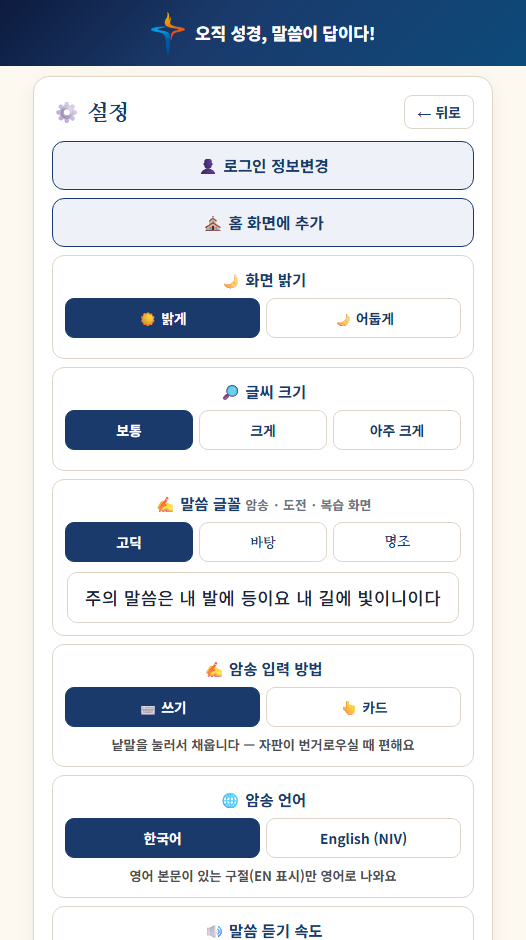
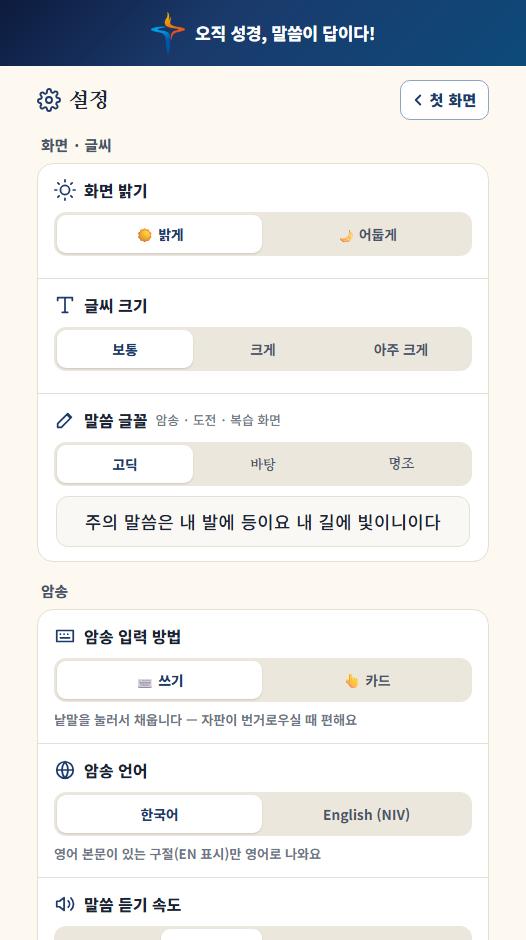
feat(설정): A안 — 묶음 제목 + 흰 카드 줄(친구 「2안」) — v3.640
- applySettingsA: 화면 · 글씨 / 암송 / 알림 / 내 정보 · 앱 / 동기화 로 옮겨 담기(id · 연결 · 저장 그대로)
- 선 아이콘 · 고르는 칸 회색 판 위 흰 칸 · 단추 [아이콘 · 이름 · ›] 줄 · 「‹ 첫 화면」
- 설명서 · 도움말 · 알림 길잡이의 단추 이름에서 그림 글자만 뺌 · guide ⑧ 손가락 · settings.png
- 롤백: SETTINGS_LAYOUT "old"

diff --git a/app.js b/app.js
@@ -6,7 +6,7 @@
 
 // 이 파일의 빌드 번호 — index.html의 app.js?v= 와 반드시 같아야 한다.
 // (tools/bump.py가 둘을 함께 올린다)
-const APP_BUILD = "20261014s";
+const APP_BUILD = "20261014t";
 
 // 배포 직후 CDN이 아직 옛 app.js를 내보내면, 브라우저는 그 옛 내용을 '새 주소'
 // 아래 캐시해 버린다. 주소가 다시 바뀌기 전까지(최대 10분) 옛 화면이 남는 이유다.
@@ -785,6 +785,8 @@ function albumAActive() {
 //   (B · C 시안은 10/14 미리보기만 하고 걷었다 — 남은 b · c 표식은 A 로 본다 · style.css 의 .memo-b/.memo-c 덩이는 나중에 걷는다)
 //   ⚠ 위 구절 띠(.test-ref-sticky)에는 아무것도 넣지 않는다 — 아이폰 앱이 그 글자를 읽어 제 띠를 그린다(js/push.js). 그래서 「목록으로」는 띠 밑 줄에.
 const MEMO_LAYOUT = "a";
+// ⚙ 설정 화면 A안(2026-10-14 친구 「2안」 · applySettingsA) — 롤백은 "old" 한 줄 + bump(옮겨 담기라 옛 템플릿 그대로)
+const SETTINGS_LAYOUT = "a";
 const MEMO_KEY = "memo-preview";
 function readMemoPreviewParam() {
   try {
@@ -886,6 +888,20 @@ const HA_ICON = {
   speaker: "M11 5 6 9H3v6h3l5 4zM15.5 8.5a5 5 0 0 1 0 7M18.5 5.5a9 9 0 0 1 0 13",
   bulb: "M9 18h6M10 22h4M12 2a7 7 0 0 0-4 12.7V17h8v-2.3A7 7 0 0 0 12 2z",
   bell: "M6 8a6 6 0 0 1 12 0c0 7 3 9 3 9H3s3-2 3-9M10 21a2 2 0 0 0 4 0",
+  sun: "M12 17a5 5 0 1 0 0-10 5 5 0 0 0 0 10zM12 1v2M12 21v2M4.2 4.2l1.4 1.4M18.4 18.4l1.4 1.4M1 12h2M21 12h2M4.2 19.8l1.4-1.4M18.4 5.6l1.4-1.4",   // ⚙ 설정 A(applySettingsA) ↓
+  moon: "M21 12.8A9 9 0 1 1 11.2 3a7 7 0 0 0 9.8 9.8z",
+  type: "M4 7V4h16v3M9 20h6M12 4v16",
+  globe: "M12 21a9 9 0 1 0 0-18 9 9 0 0 0 0 18zM3 12h18M12 3a14 14 0 0 1 0 18M12 3a14 14 0 0 0 0 18",
+  clock: "M12 21a9 9 0 1 0 0-18 9 9 0 0 0 0 18zM12 7v5l3 2",
+  belloff: "M8.7 3A6 6 0 0 1 18 8c0 3 .6 5 1.3 6.4M17 17H3s3-2 3-9c0-.8.1-1.5.4-2.2M3 3l18 18M10 21a2 2 0 0 0 4 0",
+  user: "M20 21v-2a4 4 0 0 0-4-4H8a4 4 0 0 0-4 4v2M12 11a4 4 0 1 0 0-8 4 4 0 0 0 0 8z",
+  share: "M4 12v7a1 1 0 0 0 1 1h14a1 1 0 0 0 1-1v-7M16 6l-4-4-4 4M12 2v13",
+  lock: "M5 11h14v10H5zM8 11V7a4 4 0 0 1 8 0v4",
+  shield: "M12 22s8-4 8-10V5l-8-3-8 3v7c0 6 8 10 8 10z",
+  trash: "M3 6h18M8 6V4h8v2M6 6l1 14h10l1-14",
+  cloud: "M18 10h-1.3A6 6 0 1 0 6 16h12a3 3 0 0 0 0-6z",
+  flask: "M9 3h6M10 3v6l-5 9a2 2 0 0 0 2 3h10a2 2 0 0 0 2-3l-5-9V3",
+  back: "M15 6l-6 6 6 6",
   gear: "M12 15a3 3 0 1 0 0-6 3 3 0 0 0 0 6zM19.4 15a1.7 1.7 0 0 0 .3 1.8l.1.1a2 2 0 1 1-2.8 2.8l-.1-.1a1.7 1.7 0 0 0-2.9 1.2V21a2 2 0 1 1-4 0v-.1a1.7 1.7 0 0 0-2.9-1.2l-.1.1a2 2 0 1 1-2.8-2.8l.1-.1A1.7 1.7 0 0 0 3.1 15H3a2 2 0 1 1 0-4h.1a1.7 1.7 0 0 0 1.2-2.9l-.1-.1a2 2 0 1 1 2.8-2.8l.1.1A1.7 1.7 0 0 0 10 4.1V3a2 2 0 1 1 4 0v.1a1.7 1.7 0 0 0 2.9 1.2l.1-.1a2 2 0 1 1 2.8 2.8l-.1.1A1.7 1.7 0 0 0 20.9 10H21a2 2 0 1 1 0 4h-.1a1.7 1.7 0 0 0-1.5 1z",
 };
 const HA_GROUPS = [
@@ -5473,6 +5489,80 @@ function renderSettings() {
   setupPushHour();
   setupPushEvening();
   setupInstallButton();
+  applySettingsA();   // 설정 A안(SETTINGS_LAYOUT) — 연결을 다 마친 뒤 옮겨 담는다
+}
+
+// ── ⚙ 설정 A안(2026-10-14 친구 「2안」 — 묶음 제목 + 흰 카드 줄 · 샘플 자료/design/2026-10-14-settings-sample · 스위치 SETTINGS_LAYOUT) ──────
+//   renderSettings 가 옛 화면을 다 그리고 연결까지 마친 뒤 옮겨 담는다 — 단추 · 고르는 칸의 id · 연결 · 저장은 옛 코드 그대로.
+//   묶음: 화면 · 글씨(밝기 · 글씨 크기 · 말씀 글꼴) · 암송(입력 방법 · 언어 · 듣기 속도) · 알림(아침 시간 ~ 테스트 알림 — 사이에 있는 것은 모두 ·
+//   아이폰 앱은 안내 글 한 줄) · 내 정보 · 앱(로그인 정보변경 · 홈 화면에 추가 · 공유하기 · 개인정보 안내 · 관리 페이지 · 이 기기에서 내 정보 지우기) · 동기화.
+//   ⚠ 「로그인 정보변경」 · 「홈 화면에 추가」가 맨 위에서 「내 정보 · 앱」으로 내려갔다(친구가 알고 고름 — 샘플 ①은 차례 그대로였다).
+//   그림 글자는 선 아이콘 · 고르는 칸은 회색 판 위 흰 칸 · 단추는 [아이콘 · 이름 · ›] 줄 · 「‹ 첫 화면」(옛 「← 뒤로」도 첫 화면으로 갔다).
+const SET_LABEL_ICON = { "theme-row": "sun", "fontsize-row": "type", "wfont-row": "pen", "cardstart-row": "keyboard", "lang-row": "globe",
+  "tts-rate-row": "speaker", "pushhour-row": "clock", "pushevening-row": "moon" };
+const SET_BTN_ICON = { "change-user": "user", "install-btn": "house", "enable-push": "bell", "test-push": "flask", "share-btn": "share",
+  "open-manage": "lock", "privacy-info": "shield", "disable-push": "belloff", "clear-me": "trash" };
+function setStripEmoji(el) {
+  const t = el && el.firstChild;
+  if (t && t.nodeType === 3) t.data = t.data.replace(/^\s*(\p{Extended_Pictographic}(?:|\p{Extended_Pictographic})*?)\s*/u, "");
+}
+function applySettingsA() {
+  if (SETTINGS_LAYOUT !== "a") return;
+  const card = document.querySelector("#app .summary-card");
+  const head = card && card.querySelector(":scope > .settings-head");
+  if (!head || card.querySelector(".st-groups")) return;
+  card.closest(".summary-screen").classList.add("st-a");
+  const title = head.querySelector(".rank-title");
+  if (title) title.innerHTML = haSvg("gear", "st-tic") + "<span>설정</span>";
+  const back = document.getElementById("settings-back");
+  if (back) back.innerHTML = haSvg("back", "st-bic") + "<span>첫 화면</span>";
+  const blk = (id) => { const r = document.getElementById(id); return r ? r.closest(".setting-block") : null; };
+  Object.keys(SET_LABEL_ICON).forEach((id) => {
+    const l = blk(id) && blk(id).querySelector(".setting-label");
+    if (l) { setStripEmoji(l); l.insertAdjacentHTML("afterbegin", haSvg(SET_LABEL_ICON[id], "st-ic")); }
+  });
+  const sync = [...card.querySelectorAll(":scope > .setting-block")].find((b) => /동기화/.test(b.querySelector(".setting-label")?.textContent || ""));
+  if (sync) { const l = sync.querySelector(".setting-label"); setStripEmoji(l); l.insertAdjacentHTML("afterbegin", haSvg("cloud", "st-ic")); }
+  Object.keys(SET_BTN_ICON).forEach((id) => {
+    const b = document.getElementById(id);
+    if (!b) return;
+    setStripEmoji(b);
+    const br = b.querySelector("br");
+    if (br) br.remove();
+    const lab = document.createElement("span");
+    lab.className = "st-lab";
+    [...b.childNodes].forEach((n) => lab.appendChild(n));
+    b.appendChild(lab);
+    b.insertAdjacentHTML("afterbegin", haSvg(SET_BTN_ICON[id], "st-ic"));
+    b.insertAdjacentHTML("beforeend", haSvg("chev", "st-chev"));
+    b.classList.add("st-row");
+  });
+  const pv = document.getElementById("tts-preview");
+  if (pv) { setStripEmoji(pv); pv.insertAdjacentHTML("afterbegin", haSvg("speaker", "st-ic")); }
+  // 알림 — 아침 시간 칸부터 「테스트 알림」까지 사이에 있는 것 모두(저녁 알림 · 알림 받기 · 상태 글 · 끄기 · 아이폰 앱 안내)
+  const alarm = [];
+  const from = blk("pushhour-row"), to = document.getElementById("test-push");
+  if (from && to) { for (let el = from; el; el = el.nextElementSibling) { alarm.push(el); if (el === to) break; } }
+  const G = [
+    ["화면 · 글씨", [blk("theme-row"), blk("fontsize-row"), blk("wfont-row")]],
+    ["암송", [blk("cardstart-row"), blk("lang-row"), blk("tts-rate-row")]],
+    ["알림", alarm],
+    ["내 정보 · 앱", ["change-user", "install-btn", "share-btn", "privacy-info", "open-manage", "clear-me"].map((id) => document.getElementById(id))],
+    ["동기화", [sync]],
+  ];
+  const wrap = document.createElement("div");
+  wrap.className = "st-groups";
+  G.forEach(([t, items]) => {
+    const list = items.filter(Boolean);
+    if (!list.length) return;
+    const sec = document.createElement("section");
+    sec.className = "st-group";
+    sec.innerHTML = `<div class="st-gt">${t}</div><div class="st-card"></div>`;
+    const box = sec.querySelector(".st-card");
+    list.forEach((x) => box.appendChild(x));
+    wrap.appendChild(sec);
+  });
+  head.after(wrap);   // 남는 것(아이폰 앱 판 한 줄 등)은 그 아래 그대로
 }
 
 // 공용 기기(로비 지원용 태블릿 등)를 다음 사람에게 넘기기 전에 내 흔적을 지운다.
@@ -9043,7 +9133,7 @@ function maybeShowOldPlayAppNotice() {
         <div class="cheer-msg dmsg-body">지금 쓰시는 앱은 시험하던 옛 앱이에요.<br>플레이스토어에 정식 앱 <b>「성경말씀 암송 (고척교회)」</b>이 나왔어요.<br><br>
           ① 아래 「새 앱 받기」로 설치해 주세요.<br>
           ② 새 앱에서 같은 소속·이름으로 들어오시면 기록이 그대로 이어져요.<br>
-          ③ 설정에서 「🔔 매일 암송 알림 받기」를 한 번 다시 눌러 주세요(알림은 앱마다 따로 켜야 해요).<br>
+          ③ 설정에서 「매일 암송 알림 받기」를 한 번 다시 눌러 주세요(알림은 앱마다 따로 켜야 해요).<br>
           ④ 새 앱이 잘 열리면 이 옛 앱은 지우셔도 돼요.</div>
         <div class="song-modal-actions">
           <button class="summary-help" id="old-app-later">나중에</button>
@@ -9970,7 +10060,7 @@ const MANUAL = [
         : "첫 화면을 <b>맨 아래까지</b> 내려 <b>⚙ 설정</b>을 누르세요.",
       "<b>글씨 크기</b>에서 <b>크게</b>나 <b>아주 크게</b>를 고르세요.",
       "눈이 부시면 <b>화면 밝기</b>에서 <b>🌙 어둡게</b>를 고르세요.",
-      "이름이나 목장이 바뀌었으면 <b>👤 로그인 정보변경</b>에서 고치세요.",
+      "이름이나 목장이 바뀌었으면 <b>로그인 정보변경</b>에서 고치세요.",
     ],
     tip: "<b>말씀 듣기 속도</b>도 여기서 느리게 할 수 있어요. 영어로 외우고 싶으시면 <b>암송 언어</b>에서 <b>English (NIV)</b>를 고르세요.",
   },
@@ -10198,7 +10288,7 @@ function renderHelp(onClose) {
 
         <section class="help-section">
           <h3>📲 공유 & 홈 화면 추가</h3>
-          <p><b>⚙ 설정</b>의 <b>🔗 공유하기</b>로 가족·목장원들에게 링크를 보낼 수 있고, <b>⛪ 홈 화면에 추가</b>로 앱처럼 바로 열 수 있어요.</p>
+          <p><b>⚙ 설정</b>의 <b>공유하기</b>로 가족·목장원들에게 링크를 보낼 수 있고, <b>홈 화면에 추가</b>로 앱처럼 바로 열 수 있어요.</p>
         </section>
 
         <section class="help-section">

diff --git a/style.css b/style.css
@@ -7373,3 +7373,60 @@ html[data-fs="xl"] .vl-a .vs-ic { width: 20px; height: 20px; }
 .dark .vl-a .vl-card .heart-ribbon { color: #e9cd7e; }
 .dark .vl-a .card-listen { background: #1a202b; border-color: #2c3442; color: #9dbbea; }
 .dark .vl-a .card-listen:hover { background: #222a37; }
+
+/* ── ⚙ 설정 A안(app.js applySettingsA · 2026-10-14 친구 「2안」 — 묶음 제목 + 흰 카드 줄) ─────────────────────────────────
+   흰 큰 카드를 걷고 바탕 위에 묶음(화면 · 글씨 / 암송 / 알림 / 내 정보 · 앱 / 동기화)마다 흰 카드 하나 · 안은 줄(사이 선).
+   고르는 칸은 회색 판 위 흰 칸(「쓰기 | 카드」와 같은 꼴) · 단추는 [아이콘 · 이름 · ›] 줄 · 「알림 끄기」 · 「내 정보 지우기」만 빨강. */
+.st-a .summary-card { background: transparent; border: 0; box-shadow: none; padding: 0 4px 24px; text-align: left; }
+.st-a .settings-head { display: flex; align-items: center; justify-content: space-between; gap: 10px; margin: 4px 0 14px; }
+.st-a .rank-title { display: flex; align-items: center; gap: 8px; margin: 0; font-size: 1.3rem; color: #1b2333; }
+.st-a .st-tic { width: 24px; height: 24px; color: #1e3a6b; }
+.st-a #settings-back { display: inline-flex; align-items: center; gap: 2px; min-height: 40px; padding: 0 12px 0 8px; border: 1.5px solid #8da3c8; border-radius: 10px; background: #fff; color: #1e3a6b; font-size: .94rem; font-weight: 800; }
+.st-a #settings-back:hover { background: #eaf0f9; }
+.st-a .st-bic { width: 18px; height: 18px; stroke-width: 2.4; }
+.st-a .st-groups { display: flex; flex-direction: column; gap: 18px; }
+.st-a .st-gt { margin: 0 0 8px; padding: 0 4px; font-size: .92rem; font-weight: 800; color: #4a5468; }
+.st-a .st-card { background: #fff; border: 1px solid #e5dfd4; border-radius: 16px; overflow: hidden; }
+.st-a .st-card > * { margin: 0; border: 0; border-top: 1px solid #e5dfd4; border-radius: 0; background: transparent; box-shadow: none; }
+.st-a .st-card > :first-child { border-top: 0; }
+.st-a .st-card > [hidden] { display: none; }
+.st-a .st-card > .setting-block { padding: 14px 16px; }
+.st-a .st-card > .app-status { padding: 4px 16px 10px; border-top: 0; font-size: .82rem; text-align: left; }
+.st-a .st-card > .app-status:empty { display: none; }
+.st-a .setting-label { display: flex; align-items: center; gap: 8px; justify-content: flex-start; margin: 0 0 10px; text-align: left; font-size: 1rem; font-weight: 800; color: #1b2333; }
+.st-a .setting-sub { font-weight: 500; color: #6e7787; }
+.st-a .st-ic { width: 22px; height: 22px; flex: none; color: #1e3a6b; }
+.st-a .tts-rate-row { gap: 2px; padding: 3px; border-radius: 12px; background: #ece7dd; }
+.st-a .tts-rate-row button { margin: 0; border: 0; border-radius: 9px; background: transparent; color: #4a5468; font-weight: 600; box-shadow: none; }
+.st-a .tts-rate-row button.on { background: #fff; color: #1e3a6b; font-weight: 800; box-shadow: 0 1px 2px rgba(0, 0, 0, .14); }
+.st-a .setting-block .btn-sub { text-align: left !important; color: #4a5468; }
+.st-a .wf-sample { border: 1px solid #e5dfd4; border-radius: 12px; background: #faf8f4; }
+.st-a #tts-preview { display: flex; align-items: center; justify-content: center; gap: 8px; min-height: 44px; border: 1.5px solid #8da3c8; border-radius: 12px; background: #fff; color: #1e3a6b; font-weight: 800; }
+.st-a #tts-preview:hover { background: #eaf0f9; }
+.st-a .st-row {
+  display: flex; align-items: center; gap: 12px; width: 100%; min-height: 56px; padding: 8px 14px 8px 16px;
+  text-align: left; font-family: inherit; font-size: 1rem; font-weight: 700; color: #1b2333; text-decoration: none; cursor: pointer;
+}
+.st-a .st-row:hover { background: #f7f4ee; }
+.st-a .st-row .st-lab { flex: 1 1 auto; display: flex; flex-direction: column; gap: 2px; min-width: 0; word-break: keep-all; }   /* 「지우 / 기」처럼 낱말 가운데서 꺾이지 않게 */
+.st-a .st-row .btn-sub { font-size: .82rem; font-weight: 500; color: #4a5468; }
+.st-a .st-row .st-chev { width: 20px; height: 20px; flex: none; color: #8a93a3; }
+.st-a #disable-push.st-row, .st-a #clear-me.st-row, .st-a #disable-push .st-ic, .st-a #clear-me .st-ic { color: #b4232f; }
+.dark .st-a .summary-card { background: transparent; border: 0; }
+.dark .st-a .rank-title { color: #f1eee7; }
+.dark .st-a .st-tic, .dark .st-a .st-ic { color: #9dbbea; }
+.dark .st-a #settings-back { background: #1a202b; border-color: #4a6597; color: #9dbbea; }
+.dark .st-a #settings-back:hover { background: #222a37; }
+.dark .st-a .st-gt { color: #b9c0cd; }
+.dark .st-a .st-card { background: #1a202b; border-color: #2c3442; }
+.dark .st-a .st-card > * { border-top-color: #2c3442; background: transparent; }
+.dark .st-a .setting-label { color: #f1eee7; }
+.dark .st-a .setting-sub, .dark .st-a .setting-block .btn-sub, .dark .st-a .st-row .btn-sub { color: #b9c0cd; }
+.dark .st-a .tts-rate-row { background: #262d39; }
+.dark .st-a .tts-rate-row button { background: transparent; border: 0; color: #b9c0cd; }
+.dark .st-a .tts-rate-row button.on { background: #1a202b; color: #9dbbea; border: 0; }
+.dark .st-a .wf-sample { background: #131925; border-color: #2c3442; }
+.dark .st-a #tts-preview { background: #1a202b; border-color: #4a6597; color: #9dbbea; }
+.dark .st-a .st-row { color: #f1eee7; }
+.dark .st-a .st-row:hover { background: #222a37; }
+.dark .st-a #disable-push.st-row, .dark .st-a #clear-me.st-row, .dark .st-a #disable-push .st-ic, .dark .st-a #clear-me .st-ic { color: #f07a82; }

diff --git a/index.html b/index.html
@@ -68,7 +68,7 @@
   <link rel="preconnect" href="https://fonts.gstatic.com" crossorigin />
   <link href="https://fonts.googleapis.com/css2?family=Gowun+Batang:wght@400;700&family=Lora:wght@400;600;700&family=Nanum+Myeongjo:wght@400;700;800&family=Noto+Sans+KR:wght@400;500;700;800&display=swap" rel="stylesheet" media="print" onload="this.media='all'" />
   <noscript><link href="https://fonts.googleapis.com/css2?family=Gowun+Batang:wght@400;700&family=Lora:wght@400;600;700&family=Nanum+Myeongjo:wght@400;700;800&family=Noto+Sans+KR:wght@400;500;700;800&display=swap" rel="stylesheet" /></noscript>
-  <link rel="stylesheet" href="style.css?v=20261014s" />
+  <link rel="stylesheet" href="style.css?v=20261014t" />
 </head>
 <body>
   <!-- 앱 시작 스플래시 화면 -->
@@ -77,7 +77,7 @@
       <img id="splash-logo" src="img/logo-gocheok.png" alt="고척교회" />
       <div class="splash-title">오직 성경, 말씀이 답이다!</div>
       <div class="splash-sub">주의 말씀은 내 발에 등이요<br>내 길에 빛이니이다</div>
-      <div class="splash-ver">v3.639</div>
+      <div class="splash-ver">v3.640</div>
       <img class="splash-denom" src="logo3.png?v=20260702y" alt="대한예수교장로회총회" onerror="this.style.display='none'" />
     </div>
   </div>
@@ -108,11 +108,11 @@
     <p style="text-align:center;padding:40px">불러오는 중...</p>
   </main>
 
-  <script src="js/config.js?v=20261014s"></script>
-  <script src="js/api.js?v=20261014s"></script>
-  <script src="js/push.js?v=20261014s"></script>
-  <script src="js/psalm.js?v=20261014s"></script>
-  <script src="js/events.js?v=20261014s"></script>
-  <script src="app.js?v=20261014s"></script>
+  <script src="js/config.js?v=20261014t"></script>
+  <script src="js/api.js?v=20261014t"></script>
+  <script src="js/push.js?v=20261014t"></script>
+  <script src="js/psalm.js?v=20261014t"></script>
+  <script src="js/events.js?v=20261014t"></script>
+  <script src="app.js?v=20261014t"></script>
 </body>
 </html>

diff --git a/admin.html b/admin.html
@@ -74,7 +74,7 @@
     // 교회 어드민으로 옮긴 관리 화면은 여기서 걷었다 — 성도 정보(2026-10-09) · 이벤트 · 찬양 아카이브 · 내게 주시는 말씀 기록 · 사역관리(2026-10-13).
     //   남은 것(성경암송 관리 · 설교·찬양 관리)은 설교 실전 확인 뒤 마지막 걷기에(docs/notes/admin-migration.md).
     //   ⚠ 교회 어드민(admin.onlybible.kr)으로 가는 타일은 두지 않는다(2026-10-13 친구 — 그곳은 주소로 직접 들어간다).
-    { ic:"📖", title:"성경암송 관리", desc:"통계 · 알림발송 · 주간리포트 · 게시판", href:"admin-stats.html?v=20261014s" },
+    { ic:"📖", title:"성경암송 관리", desc:"통계 · 알림발송 · 주간리포트 · 게시판", href:"admin-stats.html?v=20261014t" },
     { ic:"⛪", title:"설교·찬양 관리", desc:"설교 올리기(두 단계) · 설교 목록 · 매일 묵상 · 담당자 — 담당자도 이 주소로", href:"admin-sermon.html" },
     { ic:"🎬", title:"환영 인트로 미리보기", desc:"첫 방문 인트로 4장 — 성도님 화면엔 영향 없음", href:"index.html?preview=intro" },
     { ic:"🙏", title:"축복 인사 미리보기", desc:"첫 로그인 축복 카드 — 로그인 상태에서 확인", href:"index.html?preview=blessing" },

diff --git a/guide/index.html b/guide/index.html
@@ -204,7 +204,7 @@ var STEPS = [
     s:"외운 말씀이 모이는 곳이에요.",
     say:"3단계까지 마친 말씀이 여기 모여요. <b>스스로 점검</b>에서 말씀을 <b>가리고</b> 스스로 맞혀 볼 수 있고, 맨 위 <b>▶ 듣기</b>로 이어서 들을 수도 있습니다." },
 
-  { img:"shots/settings.png", t:"⑧ 글씨 크게 하기", tap:{x:50,y:50},
+  { img:"shots/settings.png", t:"⑧ 글씨 크게 하기", tap:{x:54,y:37},
     s:"잘 안 보이시면 키우세요.",
     say:"첫 화면 내 이름 오른쪽의 <b>⚙</b>(설정)을 누르고 <b>글씨 크기</b>에서 「크게」나 「아주 크게」를 고르세요. 읽어 주는 <b>속도</b>도 느리게 할 수 있어요." },
 

diff --git a/CLAUDE.md b/CLAUDE.md
@@ -59,7 +59,7 @@
 | 봉사 당번(2026-10-06 운영 · 문 닫힘 — 🧪만) — `duty_signups` 에 직접 쓰지 말 것 | `docs/notes/duty-roster.md` |
 | 관리 기능을 교회 어드민으로 옮기기(2026-10-08 결정) | `docs/notes/admin-migration.md` · `docs/backlog.md` 4-5 |
 | 안드로이드 앱(TWA)·위젯·플레이스토어(새 앱 `kr.onlybible.gocheok`) | `docs/notes/android-app.md` |
-| 디자인 개편(2026-10-12 시작 · 시안 A·B·C 의견 수렴 중 — 고르기 전엔 입히지 말 것) · 「전」 사진 `자료/design/` · **먼저 넣은 것**(10-12 운영): 첫 화면 남은 수·전체 수·% 빼기 · 말씀 목록 시안 B 구조(본문 두 줄 · 거르기 칸 「진행·마침·마음에 둠·안 함」 · 힌트는 마음에 둔 구절에만) · 상태 이름 「아직 안 함 · 1단계 마침 · 다 마침」 · **첫 화면 A안 운영(2026-10-13 · 이번 주 말씀 아래 줄 목록) — 롤백 `app.js` `HOME_LAYOUT = "old"` 한 줄 + bump(깃 태그 `home-before-a-2026-10-13`)** · 한 기기만 `?home=old` · B안 미리보기 `?home=b` · `?home=off` · **나의 말씀 앨범 A안 운영(2026-10-13 v3.617 · 롤백 `app.js` `ALBUM_LAYOUT = "old"` 한 줄 + bump)** · 「첫 화면으로」는 시안과 달리 늘 아래에 떠 있게(친구) · **✍ 말씀 글꼴 설정(2026-10-14 · 기본 고딕 · `html[data-wf]`)** · **암송 · 말씀 도전 A안 운영(2026-10-14 v3.634 · 주제별 성경암송 3단계 · 복습도 v3.635 · 단계 완료 창 · 마친 뒤 카드 · 주제별 목록 · 첫 화면 위쪽(🔔⚙ 는 인사 줄 오른쪽 — 친구 v3.637)도 v3.636 · **맨 위 띠(모든 화면) = 남색 띠에 글씨 없는 로고 `img/logo-mark.png` + 「오직 성경, 말씀이 답이다!」 한 줄(v3.638 · 친구 샘플 ③)** · **말씀 목록 A(카드 그대로 · A 옷 · v3.639 · MEMO_LAYOUT)** — 롤백 `app.js` `MEMO_LAYOUT = "old"` 한 줄 + bump · 깃 태그 `memo-before-a-2026-10-14` · 한 기기만 설정 → 관리 페이지 「옛 화면」/`?memo=old`) · 위 구절 띠(`.test-ref-sticky`)에는 아무것도 넣지 말 것 — 아이폰 앱이 읽는다** | `docs/notes/design-refresh.md` |
+| 디자인 개편(2026-10-12 시작 · 시안 A·B·C 의견 수렴 중 — 고르기 전엔 입히지 말 것) · 「전」 사진 `자료/design/` · **먼저 넣은 것**(10-12 운영): 첫 화면 남은 수·전체 수·% 빼기 · 말씀 목록 시안 B 구조(본문 두 줄 · 거르기 칸 「진행·마침·마음에 둠·안 함」 · 힌트는 마음에 둔 구절에만) · 상태 이름 「아직 안 함 · 1단계 마침 · 다 마침」 · **첫 화면 A안 운영(2026-10-13 · 이번 주 말씀 아래 줄 목록) — 롤백 `app.js` `HOME_LAYOUT = "old"` 한 줄 + bump(깃 태그 `home-before-a-2026-10-13`)** · 한 기기만 `?home=old` · B안 미리보기 `?home=b` · `?home=off` · **나의 말씀 앨범 A안 운영(2026-10-13 v3.617 · 롤백 `app.js` `ALBUM_LAYOUT = "old"` 한 줄 + bump)** · 「첫 화면으로」는 시안과 달리 늘 아래에 떠 있게(친구) · **✍ 말씀 글꼴 설정(2026-10-14 · 기본 고딕 · `html[data-wf]`)** · **암송 · 말씀 도전 A안 운영(2026-10-14 v3.634 · 주제별 성경암송 3단계 · 복습도 v3.635 · 단계 완료 창 · 마친 뒤 카드 · 주제별 목록 · 첫 화면 위쪽(🔔⚙ 는 인사 줄 오른쪽 — 친구 v3.637)도 v3.636 · **맨 위 띠(모든 화면) = 남색 띠에 글씨 없는 로고 `img/logo-mark.png` + 「오직 성경, 말씀이 답이다!」 한 줄(v3.638 · 친구 샘플 ③)** · **말씀 목록 A(카드 그대로 · A 옷 · v3.639 · MEMO_LAYOUT)** · **설정 A(묶음 + 흰 카드 줄 · v3.640 · 롤백 `SETTINGS_LAYOUT = "old"`)** — 롤백 `app.js` `MEMO_LAYOUT = "old"` 한 줄 + bump · 깃 태그 `memo-before-a-2026-10-14` · 한 기기만 설정 → 관리 페이지 「옛 화면」/`?memo=old`) · 위 구절 띠(`.test-ref-sticky`)에는 아무것도 넣지 말 것 — 아이폰 앱이 읽는다** | `docs/notes/design-refresh.md` |
 
 ## 폴더 — 참고·산출물은 `자료/` (2026-10-08)
 화면이 안 쓰는 참고·산출물은 모두 `자료/` 아래다 — `marketing`·`ministry`·`store`·`psalm`·`migrate`·`booklet`(GitHub) + `education`·`newfamily`·`AppForm`·`Picture`·`당회보고`(로컬). **`자료/` 는 사이트로 안 나간다.**

diff --git a/docs/notes/design-refresh.md b/docs/notes/design-refresh.md
@@ -101,6 +101,12 @@
   - 🔊 는 금색 강조(「고령 성도가 쉽게 찾도록」 · style.css 「듣기(TTS) 버튼 크게」) → 흰 동그라미 + 남색 선 아이콘. 크기 규칙(큰 글씨 48 · 54px)은 그대로.
   - 같이 고친 말: 설명서 「말씀 듣기」 그림 · 셋째 줄 · 도움말 「말씀 듣기」(MEMO_LAYOUT 으로 갈림) · guide ③ 문장 · `guide/shots/list.png`.
   - 확인(localhost 개발 DB): 360 밝게 · 어둡게 · 320 아주 크게 — 넘침 · 잘림 0 · 오류 0 · 「· N회」 뒤에도 점 · ✓ 그대로 · 칸 바꾸기 · 주제별 구절 목록 · 이 기기만 「옛 화면」이면 옛 목록 그대로.
+- **같은 날 v3.640 — ⚙ 설정 A안 · 「2안 — 묶음 제목 + 흰 카드 줄」**(샘플 `자료/design/2026-10-14-settings-sample/settings-sample.png`(이 PC) — ① 차례 그대로 · A 옷(내 추천 — 10/11 「자리가 바뀌면 헷갈린다」) · ② 묶음 → 친구 「2안으로」). 스위치 **`SETTINGS_LAYOUT`**(app.js · "old" 한 줄 + bump 로 롤백 · 이 기기만 보는 문은 없다).
+  - `applySettingsA` — renderSettings 가 옛 화면을 다 그리고 연결(setup*)까지 마친 뒤 옮겨 담는다(id · 연결 · 저장 그대로). 묶음: 화면 · 글씨(밝기 · 글씨 크기 · 말씀 글꼴) / 암송(입력 방법 · 언어 · 듣기 속도) / 알림(아침 시간 칸부터 「테스트 알림」까지 사이 모두 — 저녁 알림 · 알림 받기 · 상태 글 · 끄기 · 아이폰 앱 안내) / 내 정보 · 앱(로그인 정보변경 · 홈 화면에 추가 · 공유하기 · 개인정보 안내 · 관리 페이지 · 이 기기에서 내 정보 지우기) / 동기화. 남는 것(아이폰 앱 판 한 줄)은 그 아래.
+  - ⚠ 「로그인 정보변경」 · 「홈 화면에 추가」가 맨 위에서 「내 정보 · 앱」으로 내려갔다(친구가 알고 고름).
+  - 그림 글자 → 선 아이콘(`HA_ICON` 에 sun · moon · type · globe · clock · belloff · user · share · lock · shield · trash · cloud · flask · back 더함) · 고르는 칸은 회색 판 위 흰 칸 · 단추는 [아이콘 · 이름 · ›] 줄(`.st-row` · 「알림 끄기」 · 「내 정보 지우기」만 빨강) · 「← 뒤로」 → 「‹ 첫 화면」 테두리 단추. `install-btn` 이 숨는 경우(설치됨)는 `.st-card > [hidden]` 이 지킨다.
+  - 같이 고친 말(두 꼴 어디서나 참이게 그림 글자만 뺌): 설명서 「글씨 크게 하기」 「👤 로그인 정보변경」 · 도움말 「🔗 공유하기 · ⛪ 홈 화면에 추가」 · 알림 길잡이 「🔔 매일 암송 알림 받기」. guide ⑧ 손가락 → 「크게」(54 · 37) · `guide/shots/settings.png`.
+  - 확인(localhost 개발 DB): 390 밝게 · 어둡게 · 320 아주 크게 — 넘침 · 잘림 0 · 오류 0 · 묶음 다섯(3 · 3 · 6 · 6 · 1줄) · 글씨 크기 · 밝기 · 듣기 속도 누름 · 「‹ 첫 화면」.
 
 ## 🧪 암송 화면 시안 A · B · C 미리보기 — `?memo=a|b|c` (2026-10-14 · 친구 「암송화면 시안A, 시안B, 시안C 모두 만들어 주세요」)
 - **폰에서는 설정 → 🔒 관리 페이지 → 「🧪 암송 화면 시안 미리보기」**에서 켠다(아래 ⚠). PC 브라우저는 **https://gocheok.onlybible.kr/?memo=a**(또는 `b` · `c`)로 연 기기에서만 암송 화면(`renderTestScreen` — 이번 주 말씀 · 말씀 목록에서 들어가는 화면)이 그 시안 꼴이다. 화면 위 표시 줄에서 **A · B · C · 원래**를 그 자리에서 바꿔 본다(`?memo=off` 도 원래로). 표식은 localStorage `memo-preview` 하나 — 주소를 모르는 성도님 화면은 그대로다.
